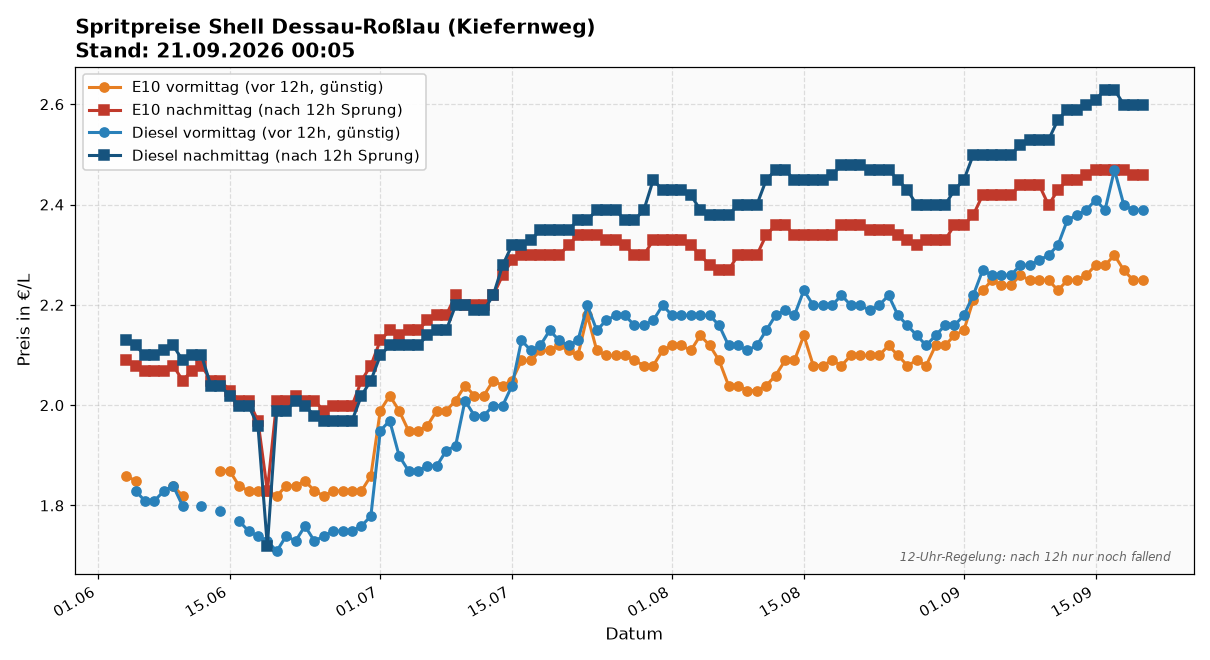
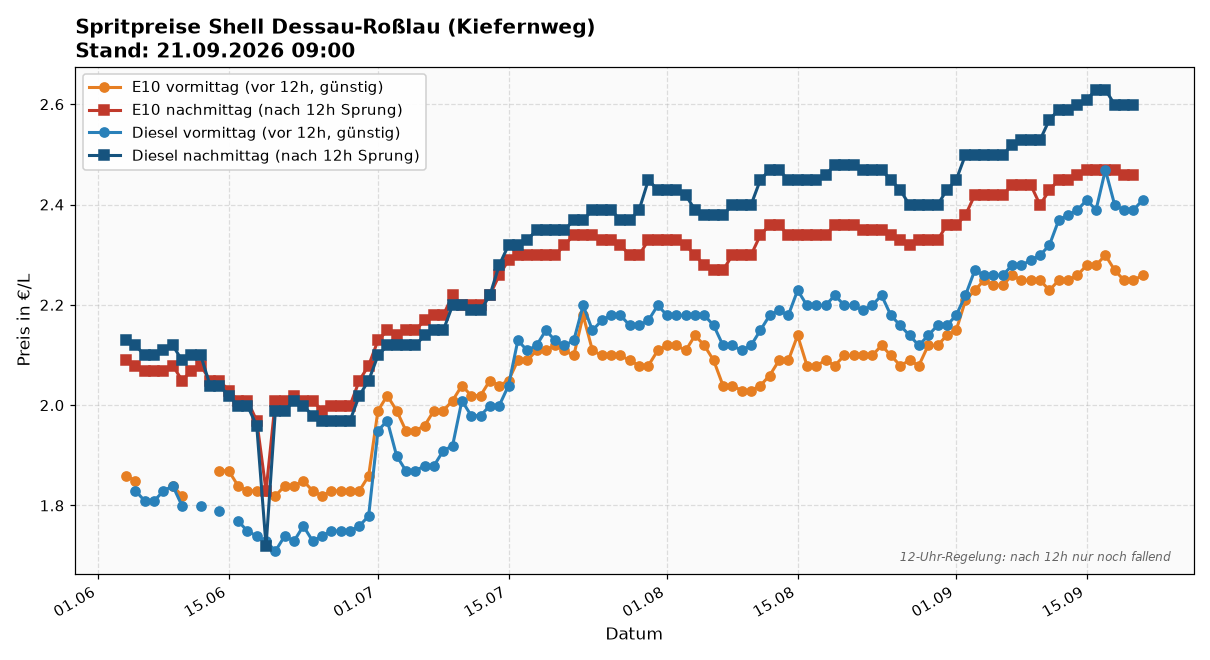
update: spritpreise 2026-09-21 09:00

diff --git a/index.html b/index.html
@@ -19,17 +19,17 @@
 </head>
 <body>
 <h1>🛢 Spritpreise Shell Dessau-Roßlau (Kiefernweg)</h1>
-<div class="sub">Source: Tankerkönig · Stand: 21.09.2026 00:05</div>
+<div class="sub">Source: Tankerkönig · Stand: 21.09.2026 09:00</div>
 
 <img src="latest.png" alt="Preisverlauf">
 
 <div class="latest">
   <strong>Heute (2026-09-21)</strong>
-  <div style="color:#888;font-style:italic;margin-bottom:0.5em;">Noch keine Messung heute — cron läuft 09:00 + 12:10.</div>
+  
   <table>
-    <tr><td>E10 vormittag</td><td class="price">— €</td></tr>
+    <tr><td>E10 vormittag</td><td class="price">2.259 €</td></tr>
     <tr><td>E10 nachmittag</td><td class="price">— €</td></tr>
-    <tr><td>Diesel vormittag</td><td class="price">— €</td></tr>
+    <tr><td>Diesel vormittag</td><td class="price">2.409 €</td></tr>
     <tr><td>Diesel nachmittag</td><td class="price">— €</td></tr>
   </table>
 </div>
